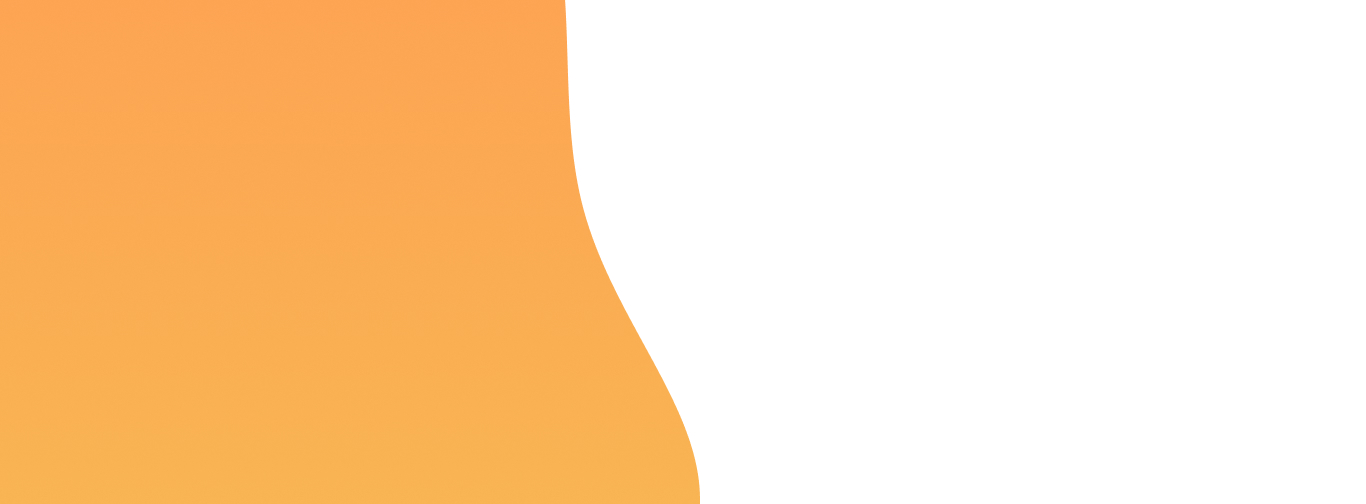
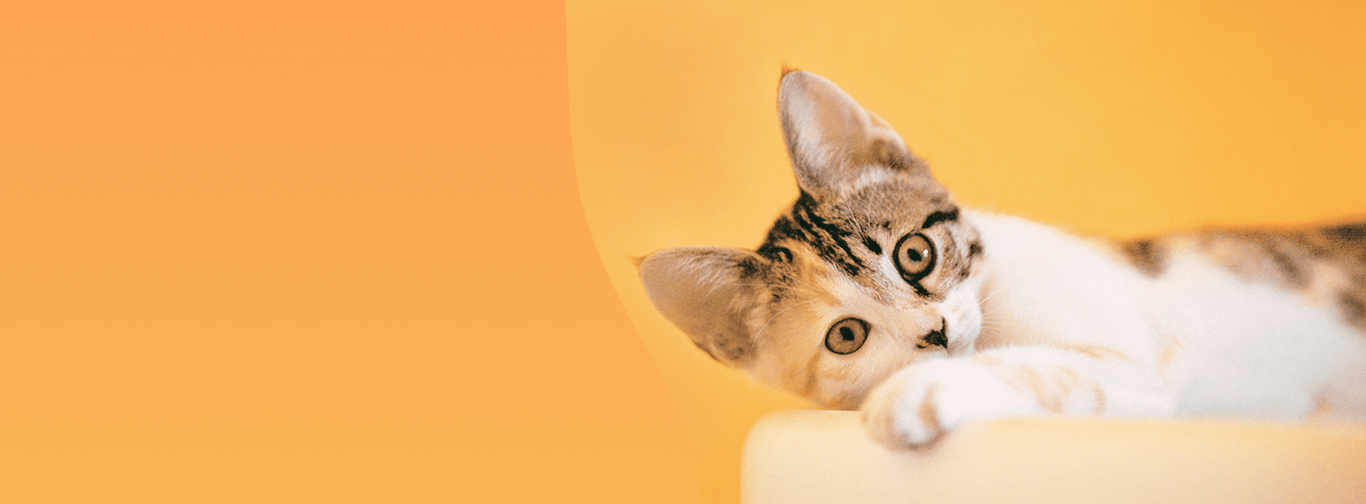
Add header-baner and globa btn

diff --git a/app/css/main.min.css b/app/css/main.min.css
@@ -1,1 +1,1 @@
-/*! normalize.css v8.0.1 | MIT License | github.com/necolas/normalize.css */html{line-height:1.15;-webkit-text-size-adjust:100%}body{margin:0}main{display:block}h1{font-size:2em;margin:0.67em 0}hr{box-sizing:content-box;height:0;overflow:visible}pre{font-family:monospace, monospace;font-size:1em}a{background-color:transparent}abbr[title]{border-bottom:none;text-decoration:underline;-webkit-text-decoration:underline dotted;text-decoration:underline dotted}b,strong{font-weight:bolder}code,kbd,samp{font-family:monospace, monospace;font-size:1em}small{font-size:80%}sub,sup{font-size:75%;line-height:0;position:relative;vertical-align:baseline}sub{bottom:-0.25em}sup{top:-0.5em}img{border-style:none}button,input,optgroup,select,textarea{font-family:inherit;font-size:100%;line-height:1.15;margin:0}button,input{overflow:visible}button,select{text-transform:none}button,[type="button"],[type="reset"],[type="submit"]{-webkit-appearance:button}button::-moz-focus-inner,[type="button"]::-moz-focus-inner,[type="reset"]::-moz-focus-inner,[type="submit"]::-moz-focus-inner{border-style:none;padding:0}button:-moz-focusring,[type="button"]:-moz-focusring,[type="reset"]:-moz-focusring,[type="submit"]:-moz-focusring{outline:1px dotted ButtonText}fieldset{padding:0.35em 0.75em 0.625em}legend{box-sizing:border-box;color:inherit;display:table;max-width:100%;padding:0;white-space:normal}progress{vertical-align:baseline}textarea{overflow:auto}[type="checkbox"],[type="radio"]{box-sizing:border-box;padding:0}[type="number"]::-webkit-inner-spin-button,[type="number"]::-webkit-outer-spin-button{height:auto}[type="search"]{-webkit-appearance:textfield;outline-offset:-2px}[type="search"]::-webkit-search-decoration{-webkit-appearance:none}::-webkit-file-upload-button{-webkit-appearance:button;font:inherit}details{display:block}summary{display:list-item}template{display:none}[hidden]{display:none}.slick-slider{position:relative;display:block;box-sizing:border-box;-webkit-user-select:none;-moz-user-select:none;-ms-user-select:none;user-select:none;-webkit-touch-callout:none;-khtml-user-select:none;touch-action:pan-y;-webkit-tap-highlight-color:transparent}.slick-list{position:relative;display:block;overflow:hidden;margin:0;padding:0}.slick-list:focus{outline:none}.slick-list.dragging{cursor:pointer;cursor:hand}.slick-slider .slick-track,.slick-slider .slick-list{transform:translate3d(0, 0, 0)}.slick-track{position:relative;top:0;left:0;display:block;margin-left:auto;margin-right:auto}.slick-track:before,.slick-track:after{display:table;content:''}.slick-track:after{clear:both}.slick-loading .slick-track{visibility:hidden}.slick-slide{display:none;float:left;height:100%;min-height:1px}[dir='rtl'] .slick-slide{float:right}.slick-slide img{display:block}.slick-slide.slick-loading img{display:none}.slick-slide.dragging img{pointer-events:none}.slick-initialized .slick-slide{display:block}.slick-loading .slick-slide{visibility:hidden}.slick-vertical .slick-slide{display:block;height:auto;border:1px solid transparent}.slick-arrow.slick-hidden{display:none}@font-face{font-family:"Lato";src:url("../fonts/LatoRegular/LatoRegular.woff") format("woff"),url("../fonts/LatoRegular/LatoRegular.woff2") format("woff2");font-weight:normal;font-style:normal}@font-face{font-family:"Lato";src:url("../fonts/LatoBold/LatoBold.woff") format("woff"),url("../fonts/LatoBold/LatoBold.woff2") format("woff2");font-weight:Bold;font-style:normal}body{font-family:'Lato', sans-serif;font-size:1rem}.header{width:100%}.top-line__container{margin:0 auto;max-width:1170px;display:flex;align-items:center;justify-content:space-between}.top-line__box .logo{display:inline-block;margin-top:12px;margin-bottom:12px}.top-line__nav-list{list-style:none;display:flex;align-items:center;justify-content:space-between}.top-line__nav-item{margin-right:30px}.top-line__nav-link{text-decoration:none;color:#000}
+/*! normalize.css v8.0.1 | MIT License | github.com/necolas/normalize.css */html{line-height:1.15;-webkit-text-size-adjust:100%}body{margin:0}main{display:block}h1{font-size:2em;margin:0.67em 0}hr{box-sizing:content-box;height:0;overflow:visible}pre{font-family:monospace, monospace;font-size:1em}a{background-color:transparent}abbr[title]{border-bottom:none;text-decoration:underline;-webkit-text-decoration:underline dotted;text-decoration:underline dotted}b,strong{font-weight:bolder}code,kbd,samp{font-family:monospace, monospace;font-size:1em}small{font-size:80%}sub,sup{font-size:75%;line-height:0;position:relative;vertical-align:baseline}sub{bottom:-0.25em}sup{top:-0.5em}img{border-style:none}button,input,optgroup,select,textarea{font-family:inherit;font-size:100%;line-height:1.15;margin:0}button,input{overflow:visible}button,select{text-transform:none}button,[type="button"],[type="reset"],[type="submit"]{-webkit-appearance:button}button::-moz-focus-inner,[type="button"]::-moz-focus-inner,[type="reset"]::-moz-focus-inner,[type="submit"]::-moz-focus-inner{border-style:none;padding:0}button:-moz-focusring,[type="button"]:-moz-focusring,[type="reset"]:-moz-focusring,[type="submit"]:-moz-focusring{outline:1px dotted ButtonText}fieldset{padding:0.35em 0.75em 0.625em}legend{box-sizing:border-box;color:inherit;display:table;max-width:100%;padding:0;white-space:normal}progress{vertical-align:baseline}textarea{overflow:auto}[type="checkbox"],[type="radio"]{box-sizing:border-box;padding:0}[type="number"]::-webkit-inner-spin-button,[type="number"]::-webkit-outer-spin-button{height:auto}[type="search"]{-webkit-appearance:textfield;outline-offset:-2px}[type="search"]::-webkit-search-decoration{-webkit-appearance:none}::-webkit-file-upload-button{-webkit-appearance:button;font:inherit}details{display:block}summary{display:list-item}template{display:none}[hidden]{display:none}.slick-slider{position:relative;display:block;box-sizing:border-box;-webkit-user-select:none;-moz-user-select:none;-ms-user-select:none;user-select:none;-webkit-touch-callout:none;-khtml-user-select:none;touch-action:pan-y;-webkit-tap-highlight-color:transparent}.slick-list{position:relative;display:block;overflow:hidden;margin:0;padding:0}.slick-list:focus{outline:none}.slick-list.dragging{cursor:pointer;cursor:hand}.slick-slider .slick-track,.slick-slider .slick-list{transform:translate3d(0, 0, 0)}.slick-track{position:relative;top:0;left:0;display:block;margin-left:auto;margin-right:auto}.slick-track:before,.slick-track:after{display:table;content:''}.slick-track:after{clear:both}.slick-loading .slick-track{visibility:hidden}.slick-slide{display:none;float:left;height:100%;min-height:1px}[dir='rtl'] .slick-slide{float:right}.slick-slide img{display:block}.slick-slide.slick-loading img{display:none}.slick-slide.dragging img{pointer-events:none}.slick-initialized .slick-slide{display:block}.slick-loading .slick-slide{visibility:hidden}.slick-vertical .slick-slide{display:block;height:auto;border:1px solid transparent}.slick-arrow.slick-hidden{display:none}@font-face{font-family:"Lato";src:url("../fonts/LatoRegular/LatoRegular.woff") format("woff"),url("../fonts/LatoRegular/LatoRegular.woff2") format("woff2");font-weight:normal;font-style:normal}@font-face{font-family:"Lato";src:url("../fonts/LatoBold/LatoBold.woff") format("woff"),url("../fonts/LatoBold/LatoBold.woff2") format("woff2");font-weight:Bold;font-style:normal}body{font-family:'Lato', sans-serif;font-size:1rem;color:#1A212F}.h1{font-size:3.875rem;font-weight:bold;line-height:4.563rem}.btn{background:#FF7236;box-shadow:0px 5px 25px rgba(26,33,47,0.1);border-radius:25px;border:none;font-size:1rem;line-height:1.188rem;padding:1.125em 4.125em  1.125em 1.875em;color:#fff;cursor:pointer;position:relative;box-sizing:content-box;transition:all .3s}.btn::after{content:'';position:absolute;margin-left:20px;height:36px;width:36px;top:50%;transform:translateY(-50%);background-image:url(../img/icons/paw-orange.svg)}.btn:hover{background:#fff;color:#1A212F}.btn:hover::after{background-image:url(../img/icons/paw.svg)}.btn--inverse{background:#fff;color:#1A212F}.btn--inverse::after{background-image:url(../img/icons/paw.svg)}.btn--inverse:hover{background:#FF7236;color:#fff}.btn--inverse:hover::after{background-image:url(../img/icons/paw-orange.svg)}.header{width:100%}.top-line__container{margin:0 auto;max-width:1170px;display:flex;align-items:center;justify-content:space-between}.top-line__box .logo{display:inline-block;margin-top:12px;margin-bottom:12px}.top-line__nav-list{list-style:none;display:flex;align-items:center;justify-content:space-between}.top-line__nav-item{margin-right:30px}.top-line__nav-link{text-decoration:none;color:#1A212F}.header-baner{display:flex;min-height:504px;height:calc(70vh - 5.0625rem);background-image:url(../img/header_bg.jpg);background-size:cover;background-repeat:no-repeat;background-position:center;position:relative}.header-baner__content{width:50%;margin-left:10%;position:absolute;top:50%;transform:translateY(-50%);width:50%}.pretitle{font-size:.875rem;line-height:1.063rem;margin-bottom:15px}.h1-title{margin-top:15px;margin-bottom:25px}.suptitle{font-size:1.25rem;line-height:1.5rem;margin-bottom:40px}

diff --git a/app/scss/_global.scss b/app/scss/_global.scss
@@ -1,4 +1,55 @@
 body{
-    font-family: 'Lato', sans-serif;
-    font-size: 1rem;
+  font-family: 'Lato', sans-serif;
+  font-size: 1rem;
+  color: $black;
+}
+.h1{
+  font-size:3.875rem;
+  font-weight: bold;
+  line-height: 4.563rem;;
+}
+.btn{
+  background: $orange;
+  box-shadow: 0px 5px 25px rgba(26, 33, 47, 0.1);
+  border-radius: 25px;
+  border: none;
+  font-size: 1rem;
+  line-height: 1.188rem;
+  padding: 1.125em 4.125em  1.125em 1.875em;
+  color: $white;
+  cursor: pointer;
+  position: relative;
+  box-sizing: content-box;
+  transition: all .3s;
+  &::after{
+    content: '';
+    position: absolute;
+    margin-left: 20px;
+    height: 36px;
+    width: 36px;
+    top: 50%;
+    transform: translateY(-50%);
+    background-image: url(../img/icons/paw-orange.svg);
+  }
+  &:hover{
+    background: $white;
+    color: $black;
+    &::after{
+      background-image: url(../img/icons/paw.svg);
+    }
+  }
+  &--inverse{
+    background: $white;
+    color: $black;
+    &::after{
+      background-image: url(../img/icons/paw.svg);
+    }
+    &:hover{
+      background: $orange;
+      color: $white;
+      &::after{
+        background-image: url(../img/icons/paw-orange.svg);
+      }
+    }
+  }
 }

diff --git a/app/scss/main.scss b/app/scss/main.scss
@@ -31,8 +31,40 @@
   }
   &-link{
     text-decoration: none;
-    color: #000;
+    color: $black;
   }
+}
+.header-baner{
+  display: flex;
+  min-height: 504px;
+  height: calc(70vh - 5.0625rem);
+  background-image: url(../img/header_bg.jpg);
+  background-size: cover;
+  background-repeat: no-repeat;
+  background-position: center;
+  position: relative; 
+}
+.header-baner__content{
+  width: 50%;
+  margin-left: 10%;
+  position: absolute;
+  top: 50%;
+  transform: translateY(-50%);
+  width: 50%;
+}
+.pretitle{
+  font-size: .875rem;
+  line-height: 1.063rem;
+  margin-bottom: 15px;
+}
+.h1-title{
+  margin-top: 15px;
+  margin-bottom: 25px;
+}
+.suptitle{
+  font-size: 1.25rem;
+  line-height: 1.5rem;
+  margin-bottom: 40px;
 }
 
 @import 'media';

diff --git a/app/index.html b/app/index.html
@@ -32,7 +32,14 @@
         </div>
       </div>
       <!-- top-line -->
-     
+      <div class="header-baner">
+        <div class="header-baner__content">
+          <p class="pretitle">Санкт-Петербург</p>
+          <h1 class="h1 h1-title title">Котейка</h1>
+          <p class="suptitle">Уютная гостиница для котов и кошек</p>
+          <button class="btn btn--inverse">Забронивароть</button>
+      </div>
+      </div>
     </header>
 
   <script src="js/libs.min.js"></script>

diff --git a/app/scss/_vars.scss b/app/scss/_vars.scss
@@ -1,0 +1,3 @@
+$black: #1A212F;
+$white: #fff;
+$orange: #FF7236;
